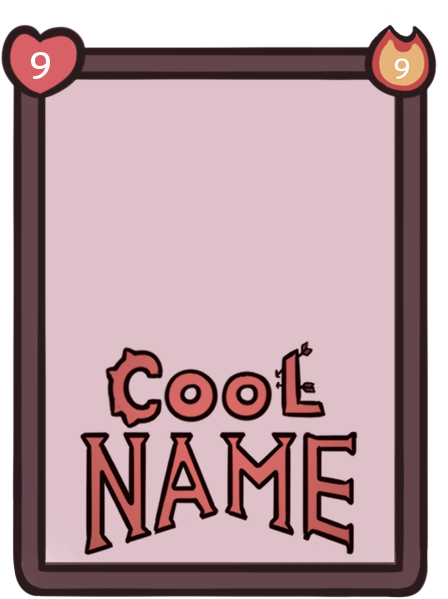
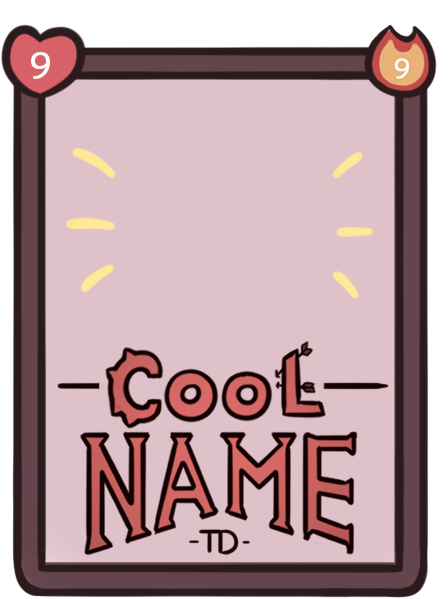
more shine!

diff --git a/pixi-card-effects/src/ParallaxCard.js b/pixi-card-effects/src/ParallaxCard.js
@@ -9,7 +9,7 @@ const ParallaxCard = ({ effect }) => {
 
   useEffect(() => {
     let isMounted = true;
-    
+
     const initializeOnce = async () => {
       if (mountedRef.current || !containerRef.current || !isMounted) return;
       mountedRef.current = true;
@@ -19,19 +19,19 @@ const ParallaxCard = ({ effect }) => {
         await pixiApp.init({
           width: 400,
           height: 600,
-          backgroundColor: 0x2c2c2c,
+          backgroundColor: 0x4a4a4a,
           antialias: true,
         });
 
-        if (!isMounted) return; 
+        if (!isMounted) return;
 
         appRef.current = pixiApp;
         containerRef.current.appendChild(pixiApp.canvas);
 
         createPlaceholderCard(pixiApp);
-        
+
         loadImagesAndReplace(pixiApp);
-        
+
       } catch (error) {
         console.error('Failed to initialize PIXI app:', error);
         mountedRef.current = false;
@@ -54,26 +54,108 @@ const ParallaxCard = ({ effect }) => {
       appRef.current = null;
       mountedRef.current = false;
     };
-  }, []); 
+  }, []);
 
-  //gradient glow texture
+  // Create simple particle effects for the corners
+  const createParticles = () => {
+    const particles = [];
+
+    
+    for (let i = 0; i < 30; i++) {
+      const particle = new PIXI.Graphics();
+      particle.beginFill(0xff6b6b, 0.9);
+      particle.drawCircle(0, 0, Math.random() * 2 + 1); 
+      particle.endFill();
+
+      // Add glow effect to particles
+      const glowFilter = new PIXI.BlurFilter();
+      glowFilter.blur = 2;
+      particle.filters = [glowFilter];
+
+      const isLeft = i < 15;
+      if (isLeft) {
+        // Left side 
+        particle.x = -100 + (Math.random() - 0.5) * 50; 
+        particle.y = -120 + (Math.random() - 0.5) * 50; 
+      } else {
+        // Right side 
+        particle.x = 100 + (Math.random() - 0.5) * 50; 
+        particle.y = -120 + (Math.random() - 0.5) * 50; 
+      }
+
+      // Random initial properties for animation
+      particle.initialX = particle.x;
+      particle.initialY = particle.y;
+      particle.floatSpeed = Math.random() * 0.5 + 0.2;
+      particle.floatOffset = Math.random() * Math.PI * 2;
+      particle.alpha = Math.random() * 0.5 + 0.5;
+      particle.baseAlpha = particle.alpha;
+
+      particles.push(particle);
+    }
+
+    return particles;
+  };
   const createGlowTexture = (radius = 40) => {
     const canvas = document.createElement('canvas');
     const size = radius * 2;
     canvas.width = size;
     canvas.height = size;
     const ctx = canvas.getContext('2d');
-    
+
     const gradient = ctx.createRadialGradient(radius, radius, 0, radius, radius, radius);
-    gradient.addColorStop(0, 'rgba(255, 107, 107, 0.8)'); 
-    gradient.addColorStop(0.4, 'rgba(255, 107, 107, 0.4)'); 
-    gradient.addColorStop(0.8, 'rgba(255, 71, 87, 0.1)'); 
-    gradient.addColorStop(1, 'rgba(255, 71, 87, 0)'); 
-    
+    gradient.addColorStop(0, 'rgba(255, 107, 107, 0.8)');
+    gradient.addColorStop(0.4, 'rgba(255, 107, 107, 0.4)');
+    gradient.addColorStop(0.8, 'rgba(255, 71, 87, 0.1)');
+    gradient.addColorStop(1, 'rgba(255, 71, 87, 0)');
+
     ctx.fillStyle = gradient;
     ctx.fillRect(0, 0, size, size);
-    
+
     return PIXI.Texture.from(canvas);
+  };
+
+  // Create card-shaped shadow 
+  const createCardShadow = () => {
+    const shadow = new PIXI.Graphics();
+    shadow.beginFill(0x000000, 0.4);
+    shadow.drawRoundedRect(-100, -140, 200, 280, 10);
+    shadow.endFill();
+
+    // Add blur filter for soft edges
+    const blurFilter = new PIXI.BlurFilter();
+    blurFilter.blur = 4;
+    shadow.filters = [blurFilter];
+
+    return shadow;
+  };
+
+  // shine effect 
+  const createShine = () => {
+    const shine = new PIXI.Graphics();
+
+    const canvas = document.createElement('canvas');
+    canvas.width = 240;
+    canvas.height = 16;
+    const ctx = canvas.getContext('2d');
+
+    const gradient = ctx.createLinearGradient(0, 0, 240, 0);
+    gradient.addColorStop(0, 'rgba(255, 255, 255, 0)');
+    gradient.addColorStop(0.4, 'rgba(255, 255, 255, 0.6)');
+    gradient.addColorStop(0.6, 'rgba(255, 255, 255, 0.6)');
+    gradient.addColorStop(1, 'rgba(255, 255, 255, 0)');
+
+    ctx.fillStyle = gradient;
+    ctx.fillRect(0, 0, 240, 16);
+
+    const shineTexture = PIXI.Texture.from(canvas);
+    const shineSprite = new PIXI.Sprite(shineTexture);
+    shineSprite.anchor.set(0.5);
+    shineSprite.rotation = -0.3; 
+    shineSprite.alpha = 0; 
+    shineSprite.blendMode = 'add'; 
+
+    return shineSprite;
   };
 
   const createPlaceholderCard = (app) => {
@@ -82,13 +164,20 @@ const ParallaxCard = ({ effect }) => {
     cardContainer.y = 300;
     app.stage.addChild(cardContainer);
 
+    // Create shadow 
+    const shadow = createCardShadow();
+    shadow.x = -20;
+    shadow.y = 20;
+    shadow.alpha = 0.6;
+    cardContainer.addChild(shadow);
+
     const glowTexture = createGlowTexture(40);
 
     const glowTopLeft = new PIXI.Sprite(glowTexture);
     glowTopLeft.anchor.set(0.5);
     glowTopLeft.x = -85;
     glowTopLeft.y = -110;
-    glowTopLeft.blendMode = 'add'; 
+    glowTopLeft.blendMode = 'add';
 
     const glowTopRight = new PIXI.Sprite(glowTexture);
     glowTopRight.anchor.set(0.5);
@@ -98,23 +187,33 @@ const ParallaxCard = ({ effect }) => {
 
     // Create placeholder graphics
     const base = new PIXI.Graphics();
-    base.beginFill(0x4a4a4a);
+    base.beginFill(0x5a5a5a);
     base.drawRoundedRect(-100, -140, 200, 280, 10);
     base.endFill();
 
     const character = new PIXI.Graphics();
-    character.beginFill(0x6b5b95);
+    character.beginFill(0x7b6ba5);
     character.drawRoundedRect(-80, -100, 160, 120, 8);
     character.endFill();
     character.y = -40;
 
+    // Create shine effect 
+    const shine = createShine();
+
+    // Create particles
+    const particles = createParticles();
+
     cardContainer.addChild(glowTopLeft);
     cardContainer.addChild(glowTopRight);
+
+    // Add particles behind the card but above the glows
+    particles.forEach(particle => cardContainer.addChild(particle));
+
     cardContainer.addChild(base);
     cardContainer.addChild(character);
+    cardContainer.addChild(shine); 
 
-    layersRef.current = { base, character, glowTopLeft, glowTopRight, container: cardContainer };
-
+    layersRef.current = { base, character, glowTopLeft, glowTopRight, shadow, shine, particles, container: cardContainer };
 
     app.stage.interactive = true;
     app.stage.on('mousemove', (event) => handleMouseMove(event, cardContainer));
@@ -128,13 +227,20 @@ const ParallaxCard = ({ effect }) => {
       ]);
 
       // Replace placeholders with actual images
-      const { container, glowTopLeft, glowTopRight } = layersRef.current;
+      const { container, glowTopLeft, glowTopRight, shadow, shine, particles } = layersRef.current;
       if (!container) return;
 
       container.removeChildren();
 
+      // Re-add all elements in order
+      container.addChild(shadow);
       container.addChild(glowTopLeft);
       container.addChild(glowTopRight);
+
+      // Add particles behind the card but above the glows
+      if (particles) {
+        particles.forEach(particle => container.addChild(particle));
+      }
 
       const base = new PIXI.Sprite(baseTexture);
       base.anchor.set(0.5);
@@ -147,8 +253,9 @@ const ParallaxCard = ({ effect }) => {
 
       container.addChild(base);
       container.addChild(character);
+      container.addChild(shine); // Shine goes on top
 
-      layersRef.current = { base, character, glowTopLeft, glowTopRight, container };
+      layersRef.current = { base, character, glowTopLeft, glowTopRight, shadow, shine, particles, container };
 
       console.log('Successfully loaded custom card images!');
 
@@ -185,7 +292,7 @@ const ParallaxCard = ({ effect }) => {
   };
 
   const applyEffect = (x, y) => {
-    const { base, character, glowTopLeft, glowTopRight } = layersRef.current;
+    const { base, character, glowTopLeft, glowTopRight, shadow, shine, particles } = layersRef.current;
     if (!base || !character) return;
 
     const maxRotX = 0.2;
@@ -205,8 +312,8 @@ const ParallaxCard = ({ effect }) => {
 
     // glow effects 
     const intensity = Math.sqrt(x * x + y * y);
-    const baseAlpha = 0.6 + intensity * 0.3; 
-    const scaleEffect = 1 + intensity * 0.1; 
+    const baseAlpha = 0.6 + intensity * 0.3;
+    const scaleEffect = 1 + intensity * 0.1;
 
     if (glowTopLeft) {
       glowTopLeft.alpha = baseAlpha;
@@ -216,6 +323,31 @@ const ParallaxCard = ({ effect }) => {
     if (glowTopRight) {
       glowTopRight.alpha = baseAlpha;
       glowTopRight.scale.set(scaleEffect);
+    }
+
+    // Shadow effects 
+    if (shadow) {
+      const shadowIntensity = intensity * 0.1;
+      shadow.alpha = 0.4 + shadowIntensity;
+    }
+
+    if (shine) {
+      shine.y = y * 120; 
+      shine.alpha = intensity * 0.4; 
+    }
+
+    if (particles) {
+      const time = Date.now() * 0.001; 
+      particles.forEach((particle, i) => {
+        // Gentle floating animation
+        particle.x = particle.initialX + Math.sin(time * particle.floatSpeed + particle.floatOffset) * 4;
+        particle.y = particle.initialY + Math.cos(time * particle.floatSpeed * 0.7 + particle.floatOffset) * 3;
+
+        particle.alpha = particle.baseAlpha + Math.sin(time * 2 + i) * 0.2 + (intensity * 0.3);
+
+        particle.x += x * 3;
+        particle.y += y * 2;
+      });
     }
   };
 
